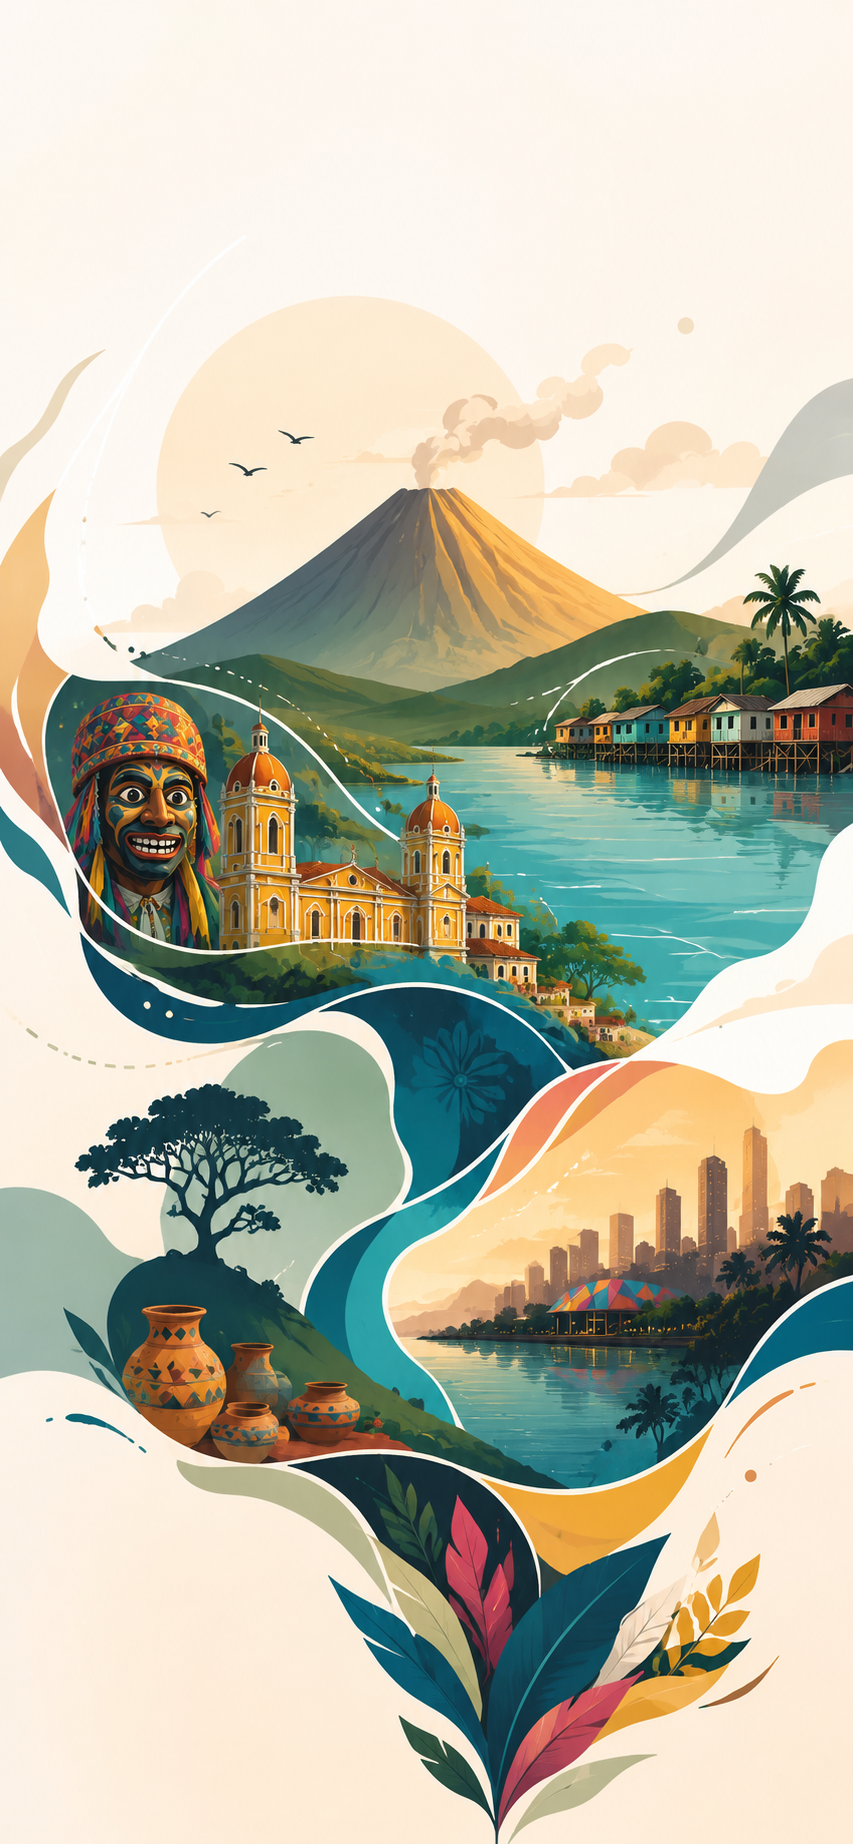
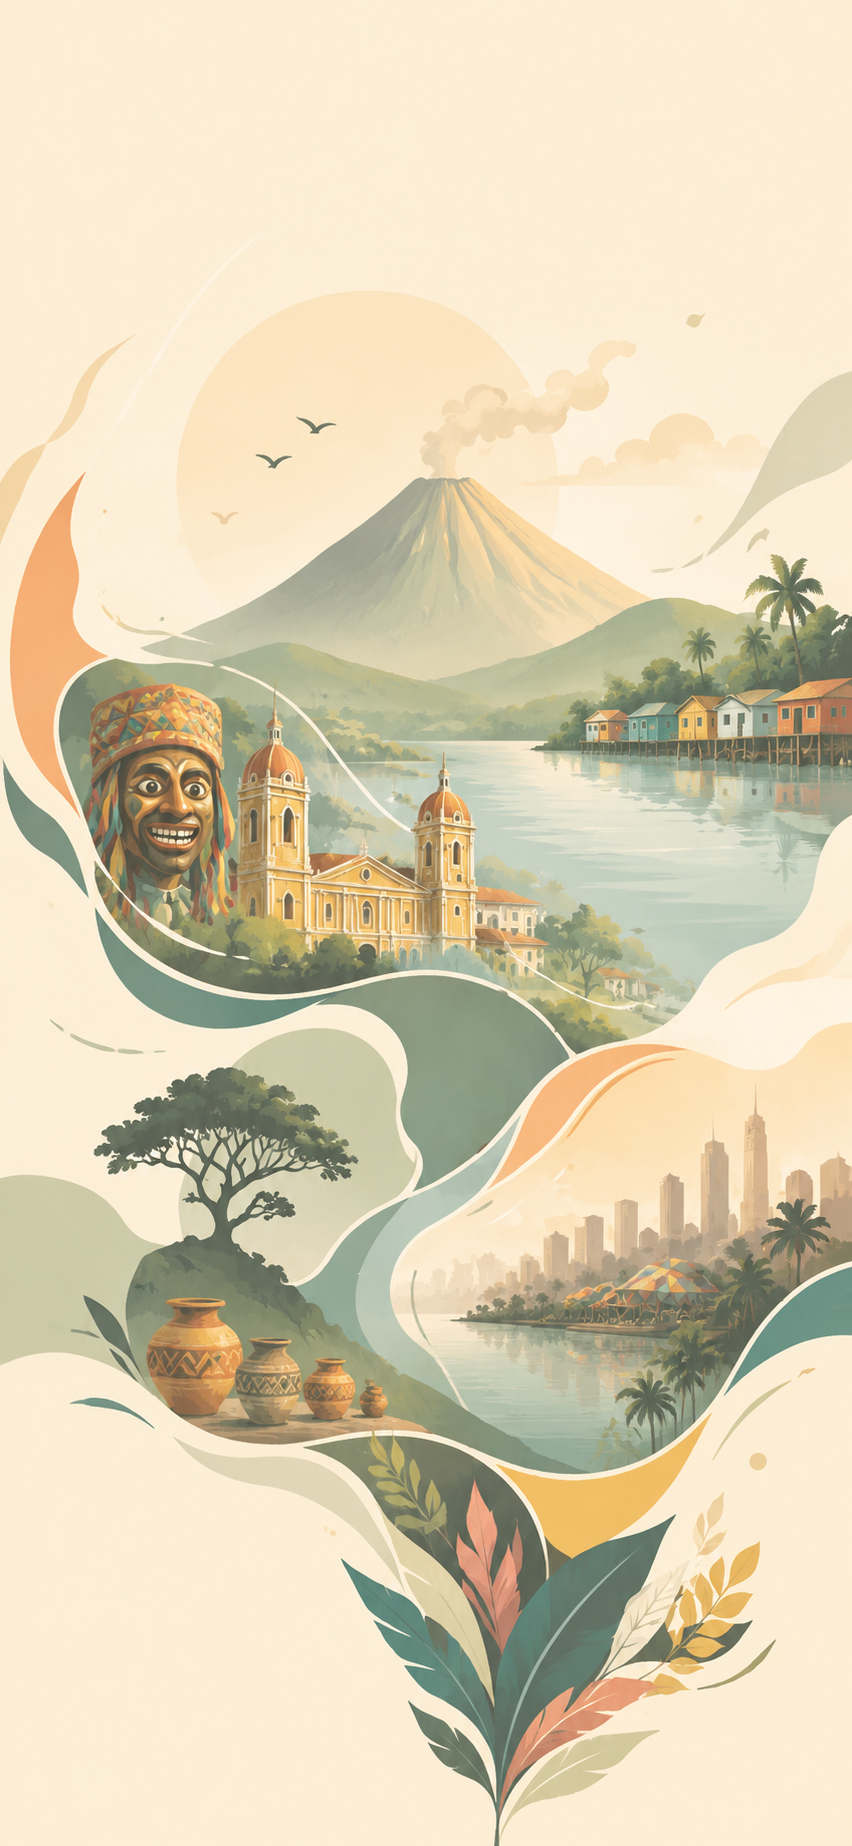
Acctualizacion de secciones

diff --git a/lib/screens/mapa_screen.dart b/lib/screens/mapa_screen.dart
@@ -21,13 +21,17 @@ class MapaScreen extends StatelessWidget {
                         color: Colors.white,
                         borderRadius: BorderRadius.circular(24),
                         boxShadow: [
-                          BoxShadow(color: const Color.fromARGB(255, 0, 0, 0), blurRadius: 6, offset: const Offset(0, 2)),
+                          BoxShadow(
+                              color: const Color.fromARGB(255, 0, 0, 0),
+                              blurRadius: 6,
+                              offset: const Offset(0, 2)),
                         ],
                       ),
                       child: const TextField(
                         decoration: InputDecoration(
                           hintText: 'Explorar león',
-                          prefixIcon: Icon(Icons.search, color: Color(0xFF5A7A8A)),
+                          prefixIcon:
+                              Icon(Icons.search, color: Color.fromARGB(255, 162, 82, 20)),
                           border: InputBorder.none,
                           contentPadding: EdgeInsets.symmetric(vertical: 12),
                         ),
@@ -45,22 +49,57 @@ class MapaScreen extends StatelessWidget {
             ),
             // Área del mapa. Aquí se debe integrar google_maps_flutter (o el
             // paquete de mapas que use el proyecto) apuntando a coordenadas
-            // de León, Nicaragua. Por ahora se deja un contenedor de
-            // referencia con los puntos de interés marcados.
+            // de León, Nicaragua, o bien usar la imagen ilustrada como fondo
+            // fijo con los puntos de interés marcados encima.
             Expanded(
               child: Container(
                 width: double.infinity,
                 color: const Color(0xFFDCE6E9),
                 child: Stack(
                   children: [
-                    const Center(
-                      child: Icon(Icons.map_outlined, size: 64, color: Color(0xFFB7C6CB)),
+                    // Fondo ilustrado del mapa. Coloca tu imagen en
+                    // assets/images/mapa_leon.png y decláralo en
+                    // pubspec.yaml (o dentro de la carpeta assets/images/
+                    // si ya la tienes declarada completa).
+                    Positioned.fill(
+                      child: Image.asset(
+                        'assets/images/mapa.png',
+                        fit: BoxFit.cover,
+                        errorBuilder: (context, error, stackTrace) {
+                          // Mientras no exista la imagen, se muestra un
+                          // ícono de referencia en vez de romper la app.
+                          return const Center(
+                            child: Icon(Icons.map_outlined,
+                                size: 64, color: Color(0xFFB7C6CB)),
+                          );
+                        },
+                      ),
                     ),
-                    _buildPin(top: 60, left: 90, icon: Icons.church_outlined, label: 'Catedral de León'),
-                    _buildPin(top: 130, left: 210, icon: Icons.museum_outlined, label: 'Centro Cultural'),
-                    _buildPin(top: 220, left: 60, icon: Icons.theater_comedy_outlined, label: 'Teatro Municipal'),
-                    _buildPin(top: 300, left: 180, icon: Icons.park_outlined, label: 'Parque Central'),
-                    _buildPin(top: 380, left: 100, icon: Icons.account_balance_outlined, label: 'UNAN León'),
+                    _buildPin(
+                        top: 60,
+                        left: 90,
+                        icon: Icons.church_outlined,
+                        label: 'Catedral de León'),
+                    _buildPin(
+                        top: 130,
+                        left: 210,
+                        icon: Icons.museum_outlined,
+                        label: 'Centro Cultural'),
+                    _buildPin(
+                        top: 220,
+                        left: 60,
+                        icon: Icons.theater_comedy_outlined,
+                        label: 'Teatro Municipal'),
+                    _buildPin(
+                        top: 300,
+                        left: 180,
+                        icon: Icons.park_outlined,
+                        label: 'Parque Central'),
+                    _buildPin(
+                        top: 380,
+                        left: 100,
+                        icon: Icons.account_balance_outlined,
+                        label: 'UNAN León'),
                   ],
                 ),
               ),
@@ -71,20 +110,52 @@ class MapaScreen extends StatelessWidget {
     );
   }
 
-  Widget _buildPin({required double top, required double left, required IconData icon, required String label}) {
+  Widget _buildPin({
+    required double top,
+    required double left,
+    required IconData icon,
+    required String label,
+  }) {
     return Positioned(
       top: top,
       left: left,
       child: Column(
+        mainAxisSize: MainAxisSize.min,
         children: [
           Container(
             padding: const EdgeInsets.all(8),
             decoration: BoxDecoration(
               color: const Color(0xFF00A8E8),
               shape: BoxShape.circle,
-              boxShadow: [BoxShadow(color: Colors.black, blurRadius: 4)],
+              border: Border.all(color: Colors.white, width: 2),
+              boxShadow: const [
+                BoxShadow(color: Colors.black38, blurRadius: 4),
+              ],
             ),
             child: Icon(icon, color: Colors.white, size: 18),
+          ),
+          const SizedBox(height: 4),
+          Container(
+            constraints: const BoxConstraints(maxWidth: 110),
+            padding: const EdgeInsets.symmetric(horizontal: 6, vertical: 2),
+            decoration: BoxDecoration(
+              color: Colors.white,
+              borderRadius: BorderRadius.circular(6),
+              boxShadow: const [
+                BoxShadow(color: Colors.black26, blurRadius: 3),
+              ],
+            ),
+            child: Text(
+              label,
+              textAlign: TextAlign.center,
+              maxLines: 2,
+              overflow: TextOverflow.ellipsis,
+              style: const TextStyle(
+                fontSize: 10,
+                fontWeight: FontWeight.w600,
+                color: Color(0xFF1A3A4A),
+              ),
+            ),
           ),
         ],
       ),

diff --git a/lib/screens/calendario_screen.dart b/lib/screens/calendario_screen.dart
@@ -23,50 +23,79 @@ class _CalendarioScreenState extends State<CalendarioScreen> {
   Widget build(BuildContext context) {
     return Scaffold(
       backgroundColor: const Color(0xFFF3E9D2),
-      body: SafeArea(
-        child: SingleChildScrollView(
-          padding: const EdgeInsets.fromLTRB(20, 16, 20, 24),
-          child: Column(
-            crossAxisAlignment: CrossAxisAlignment.start,
-            children: [
-              _buildHeader(),
-              const SizedBox(height: 6),
-              const Text(
-                'Descubre eventos creativos y tecnológicos hoy.',
-                style: TextStyle(fontSize: 13, color: Color(0xFF5A7A8A)),
+      body: Stack(
+        children: [
+          // Fondo con la silueta de León (catedral/volcán), semitransparente
+          // para que no compita con el texto. Coloca tu imagen en
+          // assets/images/fondo_leon.png.
+          Positioned.fill(
+            child: Opacity(
+              opacity: 0.25,
+              child: Image.asset(
+                'assets/images/fondo2.png',
+                fit: BoxFit.cover,
+                errorBuilder: (context, error, stackTrace) {
+                  // Mientras no exista la imagen, no se rompe la pantalla.
+                  return const SizedBox.shrink();
+                },
               ),
-              const SizedBox(height: 16),
-              _buildFiltros(),
-              const SizedBox(height: 22),
-              const Text(
-                'Agosto 2026',
-                style: TextStyle(fontSize: 16, fontWeight: FontWeight.bold, color: Color(0xFF1A3A4A)),
-              ),
-              const SizedBox(height: 12),
-              _buildSelectorDias(),
-              const SizedBox(height: 22),
-              Row(
+            ),
+          ),
+          SafeArea(
+            child: SingleChildScrollView(
+              padding: const EdgeInsets.fromLTRB(20, 16, 20, 24),
+              child: Column(
+                crossAxisAlignment: CrossAxisAlignment.start,
                 children: [
+                  _buildHeader(),
+                  const SizedBox(height: 6),
                   const Text(
-                    'Eventos 15 Agosto',
-                    style: TextStyle(fontSize: 15, fontWeight: FontWeight.bold, color: Color(0xFF1A3A4A)),
+                    'Descubre eventos creativos y tecnológicos hoy.',
+                    style: TextStyle(fontSize: 13, color: Color(0xFF5A7A8A)),
                   ),
-                  const SizedBox(width: 10),
-                  Container(
-                    padding: const EdgeInsets.symmetric(horizontal: 10, vertical: 3),
-                    decoration: BoxDecoration(
-                      color: const Color(0xFF008B8B),
-                      borderRadius: BorderRadius.circular(12),
-                    ),
-                    child: const Text('1 Evento', style: TextStyle(color: Colors.white, fontSize: 11)),
+                  const SizedBox(height: 16),
+                  _buildFiltros(),
+                  const SizedBox(height: 22),
+                  const Text(
+                    'Agosto 2026',
+                    style: TextStyle(
+                        fontSize: 16,
+                        fontWeight: FontWeight.bold,
+                        color: Color(0xFF1A3A4A)),
                   ),
+                  const SizedBox(height: 12),
+                  _buildSelectorDias(),
+                  const SizedBox(height: 22),
+                  Row(
+                    children: [
+                      const Text(
+                        'Eventos 15 Agosto',
+                        style: TextStyle(
+                            fontSize: 15,
+                            fontWeight: FontWeight.bold,
+                            color: Color(0xFF1A3A4A)),
+                      ),
+                      const SizedBox(width: 10),
+                      Container(
+                        padding: const EdgeInsets.symmetric(
+                            horizontal: 10, vertical: 3),
+                        decoration: BoxDecoration(
+                          color: const Color(0xFF008B8B),
+                          borderRadius: BorderRadius.circular(12),
+                        ),
+                        child: const Text('1 Evento',
+                            style: TextStyle(
+                                color: Colors.white, fontSize: 11)),
+                      ),
+                    ],
+                  ),
+                  const SizedBox(height: 12),
+                  _buildEventoCard(),
                 ],
               ),
-              const SizedBox(height: 12),
-              _buildEventoCard(),
-            ],
+            ),
           ),
-        ),
+        ],
       ),
     );
   }
@@ -199,7 +228,19 @@ class _CalendarioScreenState extends State<CalendarioScreen> {
         children: [
           Stack(
             children: [
-              Container(height: 130, width: double.infinity, color: const Color(0xFF6B7B4A)),
+              // Foto real del evento en vez del color sólido.
+              // Coloca tu imagen en assets/images/feria_ganadera.png.
+              SizedBox(
+                height: 130,
+                width: double.infinity,
+                child: Image.asset(
+                  'assets/images/feria.png',
+                  fit: BoxFit.cover,
+                  errorBuilder: (context, error, stackTrace) {
+                    return Container(color: const Color(0xFF6B7B4A));
+                  },
+                ),
+              ),
               Positioned(
                 top: 10,
                 left: 10,

diff --git a/lib/screens/inicio_screen.dart b/lib/screens/inicio_screen.dart
@@ -122,16 +122,20 @@ class InicioScreen extends StatelessWidget {
 }
   
 
-  Widget _buildSectionTitle(String title) {
-    return Text(
+ Widget _buildSectionTitle(String title) {
+  return SizedBox(
+    width: double.infinity,
+    child: Text(
       title,
+      textAlign: TextAlign.center,
       style: const TextStyle(
         fontSize: 16,
         fontWeight: FontWeight.bold,
         color: Color(0xFF1A3A4A),
       ),
-    );
-  }
+    ),
+  );
+}
 
   Widget _buildActividadCard() {
     return ClipRRect(
